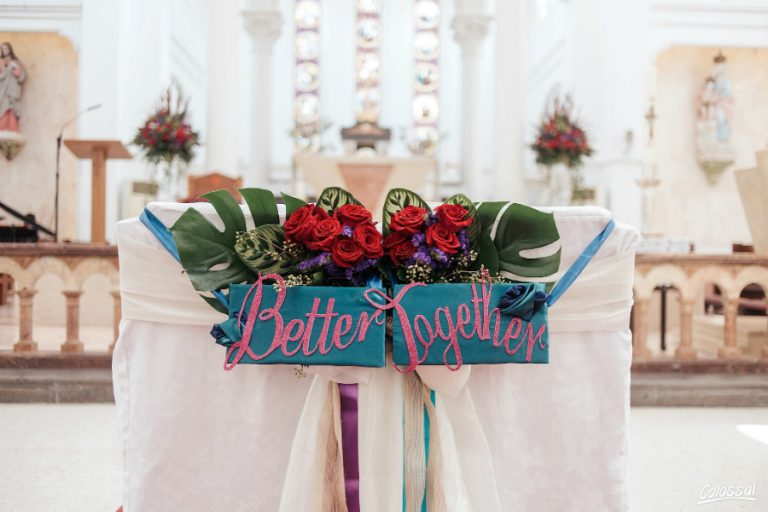
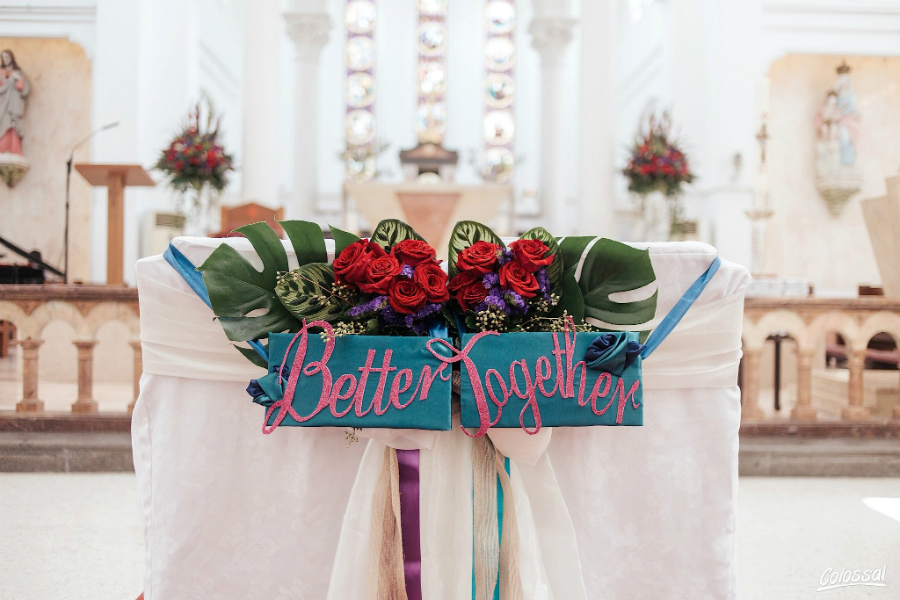
Image change to fix pixelation due to low-res imgs

diff --git a/css/style.css b/css/style.css
@@ -66,7 +66,7 @@
 
 .our-team-banner {
   background-image: linear-gradient(rgba(0, 0, 0, 0.3), rgba(0, 0, 0, 0.3)),
-    url("../images/team-banner-mpc-community-2016.jpg");
+    url("../images/team-banner.jpg");
   height: 24rem;
   background-repeat: no-repeat;
   background-position: center;

diff --git a/README.md b/README.md
@@ -139,7 +139,9 @@ All rights belong to the owners of these websites, and the photographers that pr
 
 1. [Photos taken from MPC Singapore's website](https://www.mpcsingapore.com/)
 2. [Khamkéo Vilaysing's photo](https://unsplash.com/photos/OcxlTBbb6SY)
-3. [Photos taken from HerWorld magazine's article on 23 Gorgeous Ways These Couples Styled Their Church Weddings](https://www.herworld.com/gallery/fashion/shopping/wedding-decor-couples-styled-church-singapore/)
+3. [Helena Lopes's photo](https://unsplash.com/photos/PGnqT0rXWLs)
+3. [Photo taken from HerWorld magazine's article on 23 Gorgeous Ways These Couples Styled Their Church Weddings](https://www.herworld.com/gallery/fashion/shopping/wedding-decor-couples-styled-church-singapore/)
+4. [Photo taken Mike Chen Photography](http://weddingphotographysingapore.com/actual-day-wedding/church-of-transfiguration-mbs-wedding-singapore/)
 4. My own church wedding photos taken by [Lightedpixels photography](https://www.lightedpixels.com/)
 5. Group pictures taken from my own MPC group
 
